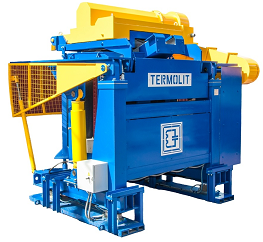
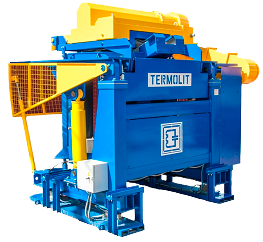
Новые места для Литья, с изображение печи убран фон

diff --git a/templates/liteyka.html b/templates/liteyka.html
@@ -264,7 +264,7 @@
                     <img src="images/pech.png" class="stanok_img" style="margin-left: auto; margin-right: auto; display: block"/>
                     <figcaption  style="margin: 1.5%; font-weight: bold; font-size: 150%; text-align: center">Печь Индукционная</figcaption>
                     <div>
-                        <a style="text-decoration: none; float: left" class="icon_mesto" href="mesto/mesto_pech_nerg" onclick="window.open(this.href, '', 'scrollbars=1,height='+Math.min(660, screen.availHeight)+',width='+Math.min(1920, screen.availWidth)); return false;"><div class='label_mesto'>Место</div></a>
+                        <a style="text-decoration: none; float: left" class="icon_mesto" href="mesto/mesto" onclick="pech_nerg(); window.open(this.href, '', 'scrollbars=1,height='+Math.min(660, screen.availHeight)+',width='+Math.min(1920, screen.availWidth)); return false;"><div class='label_mesto'>Место</div></a>
                         <a style="text-decoration: none; float: left" class="icon_personal" href="personal/personal_pech_nerg" onclick="window.open(this.href, '', 'scrollbars=1,height='+Math.min(900, screen.availHeight)+',width='+Math.min(1600, screen.availWidth)); return false;"><div class='label_personal'>Персонал</div></a>                    </div>
                 </div>
             </div>
@@ -306,5 +306,15 @@
     }
 </script>
 <!--Скрипт отображения в header  кнопки администрирование-->
+
+<script>
+    var mar_top = localStorage.getItem('mar_top');
+    var mar_left = localStorage.getItem('mar_left');
+    var bground = localStorage.getItem('bground');
+    var place_img = localStorage.getItem('place_img');
+    var size  = localStorage.getItem('size');
+</script>
+<script src="/js/mesto.js"></script>
+<!--Скрипт с вызовом функций для изменения места-->
 </body>
 </html>

diff --git a/templates/liteyka_month.html b/templates/liteyka_month.html
@@ -232,7 +232,7 @@
                     <img src="images/pech.png" class="stanok_img"/>
                     <figcaption  style="margin: 1.5%; font-weight: bold; font-size: 150%; text-align: center">Печь Индукционная</figcaption>
                     <div>
-                        <a style="text-decoration: none; float: left" class="icon_mesto" href="mesto/mesto_pech_nerg" onclick="window.open(this.href, '', 'scrollbars=1,height='+Math.min(660, screen.availHeight)+',width='+Math.min(1920, screen.availWidth)); return false;"><div class='label_mesto'>Место</div></a>
+                        <a style="text-decoration: none; float: left" class="icon_mesto" href="mesto/mesto" onclick="pech_nerg(); window.open(this.href, '', 'scrollbars=1,height='+Math.min(660, screen.availHeight)+',width='+Math.min(1920, screen.availWidth)); return false;"><div class='label_mesto'>Место</div></a>
                         <a style="text-decoration: none; float: left" class="icon_personal" href="personal/personal_pech_nerg" onclick="window.open(this.href, '', 'scrollbars=1,height='+Math.min(900, screen.availHeight)+',width='+Math.min(1600, screen.availWidth)); return false;"><div class='label_personal'>Персонал</div></a>
                     </div>
                 </div>
@@ -275,5 +275,15 @@
     }
 </script>
 <!--Скрипт отображения в header  кнопки администрирование-->
+
+<script>
+    var mar_top = localStorage.getItem('mar_top');
+    var mar_left = localStorage.getItem('mar_left');
+    var bground = localStorage.getItem('bground');
+    var place_img = localStorage.getItem('place_img');
+    var size  = localStorage.getItem('size');
+</script>
+<script src="/js/mesto.js"></script>
+<!--Скрипт с вызовом функций для изменения места-->
 </body>
 </html>

diff --git a/static/js/mesto.js b/static/js/mesto.js
@@ -580,6 +580,22 @@ function sklad (){
 };
 // конец мест Склады
 
+// Начало мест Литье
+function pech_nerg (){
+    mar_top = -125;
+    mar_left = 180;
+    bground = 'url(../images/pech.png) no-repeat';
+    place_img = "../images/ceh_1.png";
+    size = 70;
+
+    window.localStorage['mar_top'] = mar_top;
+    window.localStorage['mar_left'] = mar_left;
+    window.localStorage['bground'] = bground;
+    window.localStorage['place_img'] = place_img;
+    window.localStorage['size'] = size;
+};
+// конец мест литье
+
 // Начало мест гибка.
 function faccin_1 (){
     mar_top = -390;
